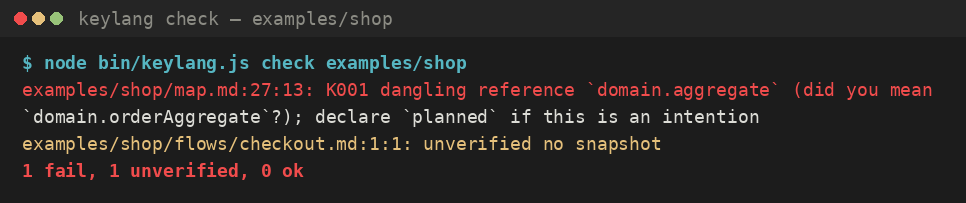
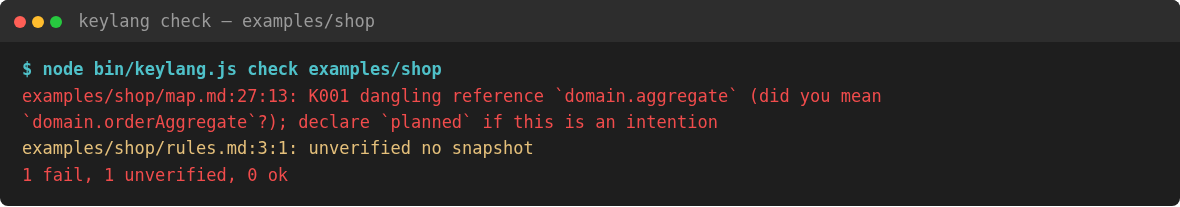
Retake the course CLI screenshots with a script

diff --git a/docs/course/uk/02-install-and-check.md b/docs/course/uk/02-install-and-check.md
@@ -24,7 +24,7 @@ npm i -g keylang       # далі: keylang check
 
 | Команда | Пише файли? | Що читати |
 |---|---|---|
-| `keylang check [paths…]` | Ні | Знахідки в stdout, `N fail, M unverified, K ok` у stderr. `--changed` лишає тільки знахідки, що стосуються файлів, змінених від `HEAD` (або `--since`), плюс невідстежувані файли, зокрема видалений файл, який ще згадує потік, і K108, коли специфікацію від цього ref послаблено. `--stale` перелічує прозу, чий код змінився відтоді, як її прийняли |
+| `keylang check [paths…]` | Ні | Знахідки в stdout, `N fail, M unverified, K ok` у stderr. Названі файли читаються разом з рештою `keylang/`, але показано лише їхні знахідки. `--changed` лишає тільки знахідки, що стосуються файлів, змінених від `HEAD` (або `--since`), плюс невідстежувані файли, зокрема видалений файл, який ще згадує потік, і K108, коли специфікацію від цього ref послаблено. `--stale` перелічує прозу, чий код змінився відтоді, як її прийняли |
 | `keylang baseline` | `keylang/rules.baseline.md` | Згенерована рамка deny/allow. `--check` завершується з 1 і називає `keylang baseline`, коли файл більше не збігається |
 | `keylang feature <slug>` | Ні | Чи готовий `keylang/features/<slug>.md`. Код 0 — готово, 1 — є прогалини, 2 — файла немає |
 | `keylang agents` | Файли харнеса поза `keylang/` | Ті самі адаптери, що й `init`. `--agents=none` прибирає це встановлення і лишає baseline |
@@ -53,14 +53,6 @@ npm i -g keylang       # далі: keylang check
 У `examples/shop` є одна навмисна помилка: модуль purchase залежить від `domain.aggregate`, хоча насправді існує модуль `domain.orderAggregate`.
 
 ![K001 на examples/shop, вихід 1](../images/cli-shop-k001.png)
-
-Знімок екрана зроблено старішою версією. Сьогодні та сама команда друкує:
-
-```text
-examples/shop/map.md:27:13: K001 dangling reference `domain.aggregate` (did you mean `domain.orderAggregate`?); declare `planned` if this is an intention
-examples/shop/rules.md:3:1: unverified no snapshot
-1 fail, 1 unverified, 0 ok
-```
 
 З цього виводу можна прочитати три окремі факти:
 

diff --git a/docs/course/02-install-and-check.md b/docs/course/02-install-and-check.md
@@ -24,7 +24,7 @@ A layer name must be a single id segment. Reserved names (`external`, `unassigne
 
 | Command | Writes files? | What you read |
 |---|---|---|
-| `keylang check [paths…]` | No | Findings on stdout, `N fail, M unverified, K ok` on stderr. `--changed` keeps only findings that touch files changed since `HEAD` (or `--since`), plus untracked files, including a deleted file that a flow still names, and K108 when the spec was weakened since that ref. `--stale` lists prose whose code changed since it was accepted |
+| `keylang check [paths…]` | No | Findings on stdout, `N fail, M unverified, K ok` on stderr. Named files are read with the rest of `keylang/`, but only their findings are shown. `--changed` keeps only findings that touch files changed since `HEAD` (or `--since`), plus untracked files, including a deleted file that a flow still names, and K108 when the spec was weakened since that ref. `--stale` lists prose whose code changed since it was accepted |
 | `keylang baseline` | `keylang/rules.baseline.md` | The generated deny/allow frame. `--check` exits 1 and names `keylang baseline` when the file no longer matches |
 | `keylang feature <slug>` | No | Whether `keylang/features/<slug>.md` is done. Exit 0 means done, 1 means gaps, 2 means the file is missing |
 | `keylang agents` | Harness files outside `keylang/` | The same adapters as `init`. `--agents=none` removes that install and keeps the baseline |
@@ -53,14 +53,6 @@ By default, `check` reads the spec directory named in `keylang.json`, usually `k
 `examples/shop` contains one deliberate mistake: the purchase module depends on `domain.aggregate`, but the module that actually exists is `domain.orderAggregate`.
 
 ![K001 on examples/shop, exit 1](images/cli-shop-k001.png)
-
-The screenshot comes from an older version. Today the same command prints:
-
-```text
-examples/shop/map.md:27:13: K001 dangling reference `domain.aggregate` (did you mean `domain.orderAggregate`?); declare `planned` if this is an intention
-examples/shop/rules.md:3:1: unverified no snapshot
-1 fail, 1 unverified, 0 ok
-```
 
 The output tells you three separate things:
 

diff --git a/docs/course/uk/README.md b/docs/course/uk/README.md
@@ -10,7 +10,7 @@
 
 Курс показує, як читати й писати цю специфікацію і як працювати з CLI, терміналом і браузером. Точну специфікацію поділено на синтаксис у [`docs/grammar.md`](../../grammar.md), id, діагностики й докази в [`docs/semantics.md`](../../semantics.md) і знімок коду в [`docs/snapshot.md`](../../snapshot.md). Якщо курс і специфікація по-різному описують діагностику, правильна специфікація. Команди й прапорці описано в [`docs/cli.md`](../../cli.md) і в `keylang --help`, інтерфейс у терміналі й браузері — у [`docs/tui.md`](../../tui.md). [`docs/design.md`](../../design.md) описує, куди рухається інструмент, а не те, що він уміє сьогодні, тому коли урок згадує щось, чого інструмент ще не вміє, він про це прямо каже.
 
-Знімки екрана зроблено в цьому репозиторії командою `node bin/keylang.js web` 2026-09-28, а також командою `node bin/keylang.js check` на `examples/shop`. Локальний trace і звіт тестів тоді вже застаріли, тому ці позначки показано як `unverified`. Відтоді вивід CLI трохи змінився; там, де це важливо, урок каже, що ви побачите сьогодні.
+Знімки інтерфейсу зроблено в цьому репозиторії командою `node bin/keylang.js web` 2026-09-28, коли локальний trace і звіт тестів уже застаріли, тому ці позначки показано як `unverified`. Знімки CLI показують вивід 0.7.0; `node scripts/cli-screenshots.mjs` знімає їх знову з поточного checkout.
 
 | Урок | Ви зможете |
 |---|---|

diff --git a/docs/course/README.md b/docs/course/README.md
@@ -10,7 +10,7 @@ The idea of keylang is a division of labour. You write the spec, and an agent ge
 
 This course shows how to read and write that spec and how to work with the CLI, the terminal and the browser. The exact spec, written in Ukrainian, is split into the syntax in [`docs/grammar.md`](../grammar.md), ids, diagnostics and evidence in [`docs/semantics.md`](../semantics.md), and the code snapshot in [`docs/snapshot.md`](../snapshot.md). If this course and the spec disagree about a diagnostic, trust the spec. Commands and flags are described in [`docs/cli.md`](../cli.md) and in `keylang --help`, the terminal and the browser UI in [`docs/tui.md`](../tui.md). [`docs/design.md`](../design.md) describes where the tool is heading rather than what it does today, so whenever a lesson mentions something the tool cannot do yet, it says so.
 
-The screenshots were taken in this repository with `node bin/keylang.js web` on 2026-09-28, and with `node bin/keylang.js check` on `examples/shop`. The local trace and test report were out of date at the time, which is why those marks appear as `unverified`. The CLI output has changed in small ways since then; where it matters, the lesson says what you will see today.
+The UI screenshots were taken in this repository with `node bin/keylang.js web` on 2026-09-28, when the local trace and test report were out of date, which is why those marks appear as `unverified`. The CLI pictures show the output of 0.7.0; `node scripts/cli-screenshots.mjs` takes them again from the current checkout.
 
 | Lesson | You will be able to |
 |---|---|

diff --git a/docs/course/uk/08-use-cases.md b/docs/course/uk/08-use-cases.md
@@ -81,7 +81,7 @@ node bin/keylang.js map --check
 
 ![CLI: ID ok, static ok, trace unverified](../images/cli-check-repo.png)
 
-`static ok` на `cli.cli.run` дає виклик із `main`. Нижче `generateMap` досяжний через типове значення хука `generate`. `--static=behavior` зараховує такий шлях, а `--static=shape` — ні. Підсумок `0 fail, 22 unverified, 43 ok` збігається з інтерфейсом, якщо пам'ятати, що інтерфейс рахує рядки, а CLI — результати.
+`static ok` на `cli.cli.run` дає виклик із `main`. Нижче `generateMap` досяжний через типове значення хука `generate`. `--static=behavior` зараховує такий шлях, а `--static=shape` — ні. Знімок CLI новіший за знімки інтерфейсу, тож у його підсумку більше результатів, ніж `0 fail, 22 unverified, 43 ok` того дня; на одному дереві вони збігаються, якщо пам'ятати, що інтерфейс рахує рядки, а CLI — результати.
 
 ![explain cli.cli.cmdCheck](../images/cli-explain-id.png)
 

diff --git a/docs/course/08-use-cases.md b/docs/course/08-use-cases.md
@@ -81,7 +81,7 @@ Here is the same picture in the CLI, with the middle cut out:
 
 ![CLI: ID ok, static ok, trace unverified](images/cli-check-repo.png)
 
-`static ok` on `cli.cli.run` comes from the call in `main`. Further down, `generateMap` is reached through the default value of the hook `generate`. `--static=behavior` counts that path, while `--static=shape` would not. The summary `0 fail, 22 unverified, 43 ok` matches the UI once you remember that the UI counts lines and the CLI counts results.
+`static ok` on `cli.cli.run` comes from the call in `main`. Further down, `generateMap` is reached through the default value of the hook `generate`. `--static=behavior` counts that path, while `--static=shape` would not. The CLI picture is newer than the UI ones, so its summary has more results than the `0 fail, 22 unverified, 43 ok` of that day; on one tree the two agree once you remember that the UI counts lines and the CLI counts results.
 
 ![explain cli.cli.cmdCheck](images/cli-explain-id.png)
 
